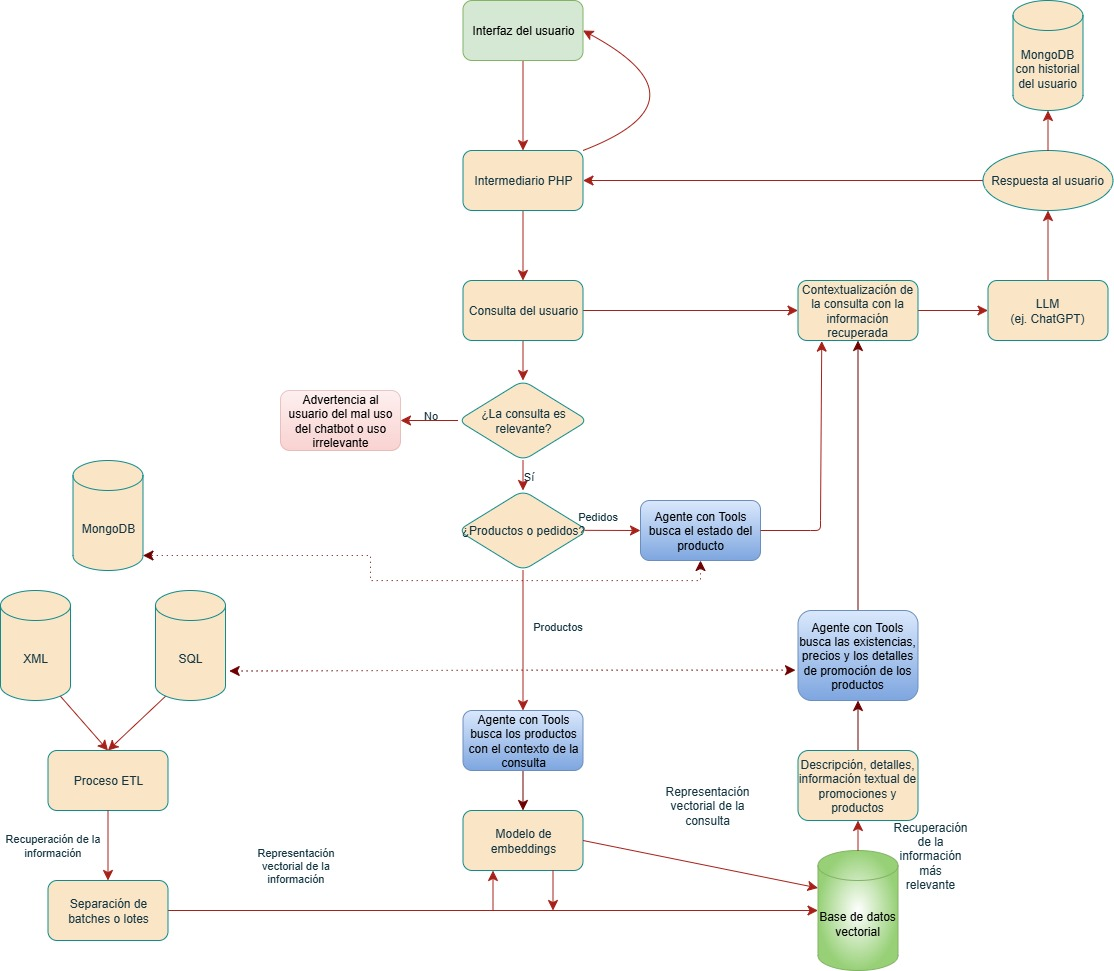
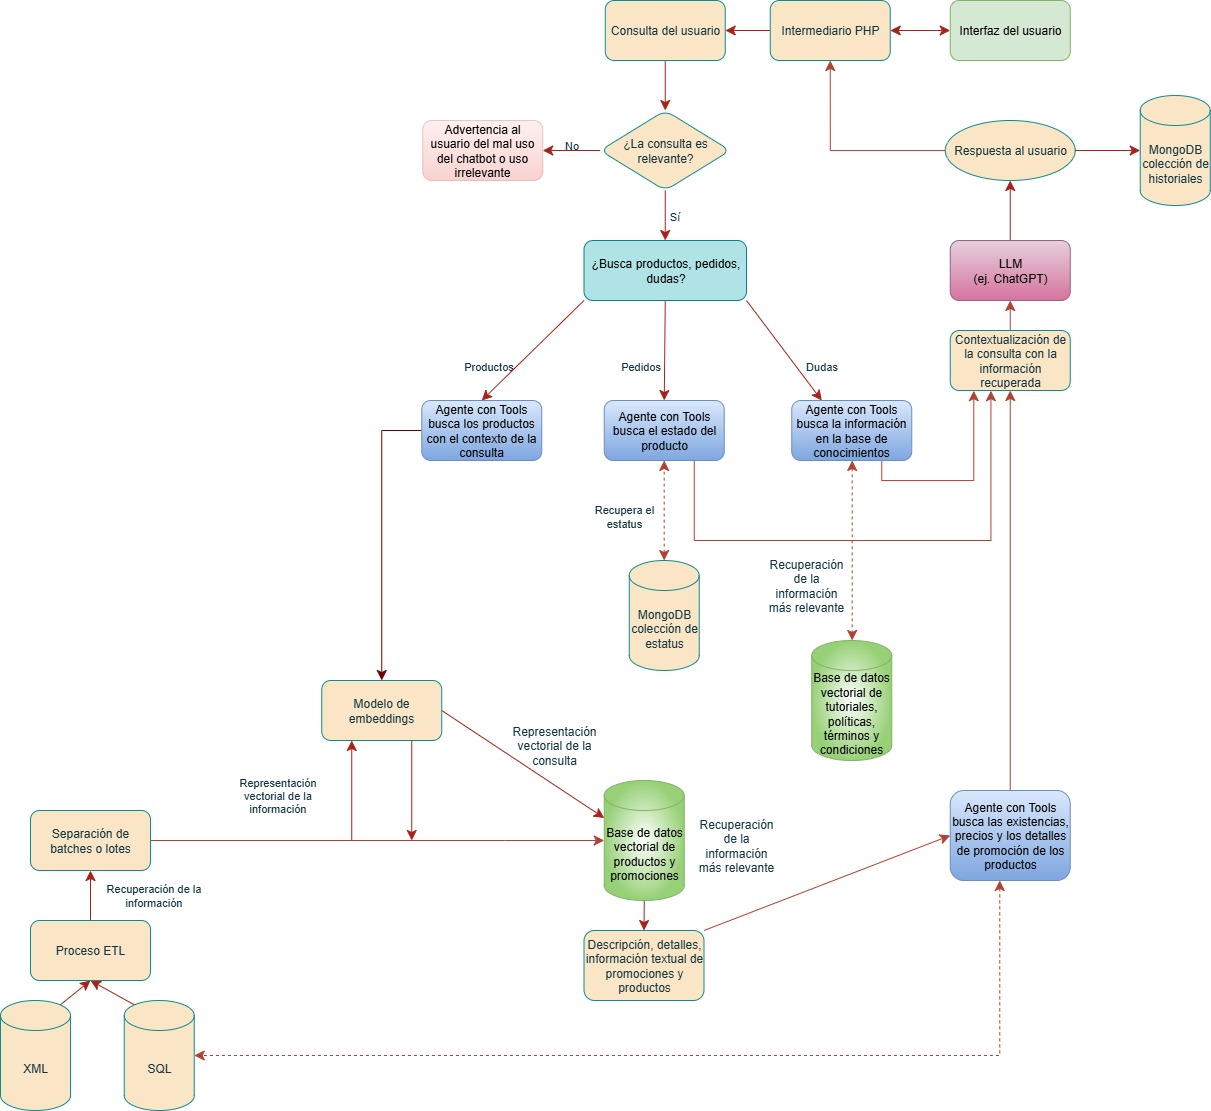
nueva tool y cambio del diagrama

diff --git a/src/ct/tools/guarantees.py b/src/ct/tools/guarantees.py
@@ -38,7 +38,7 @@ llm = ChatOllama(model="gpt-oss:latest", temperature=0.0)
 
 chain = prompt_template | llm
 
-def consultar_garantia(query: str):
+def check_warranty(query: str):
     """
     Consulta en los vectores de procedimientos, términos, políticas, etc.
     y responde a la pregunta usando un modelo LLM.
@@ -46,6 +46,11 @@ def consultar_garantia(query: str):
 
     results1 = retriever1.invoke(query)
     results2 = retriever2.invoke(query)
+
+    print(results1, flush=True)
+    print(results2, flush=True)
+
+
     context_text = "\n\n".join([doc.page_content for doc in results1 + results2])
 
     response = chain.invoke({"context": context_text, "question": query})
